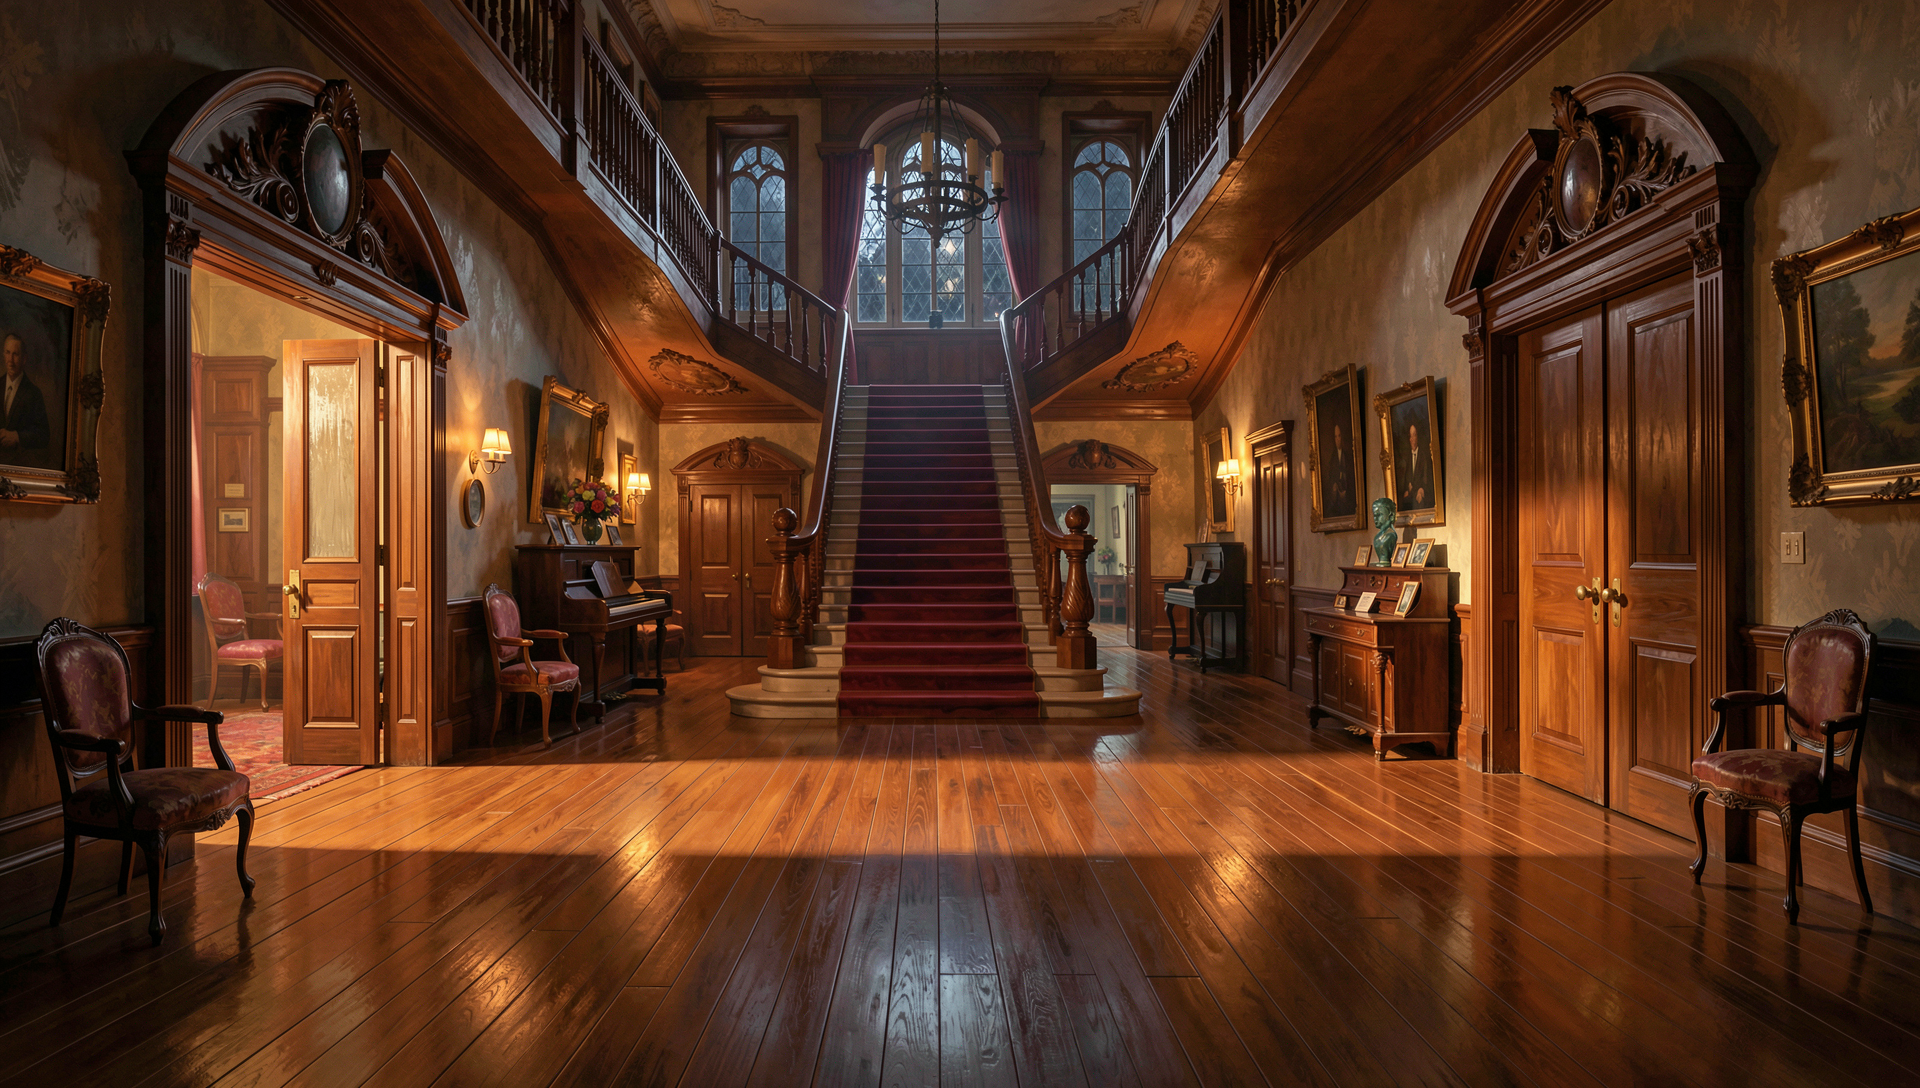
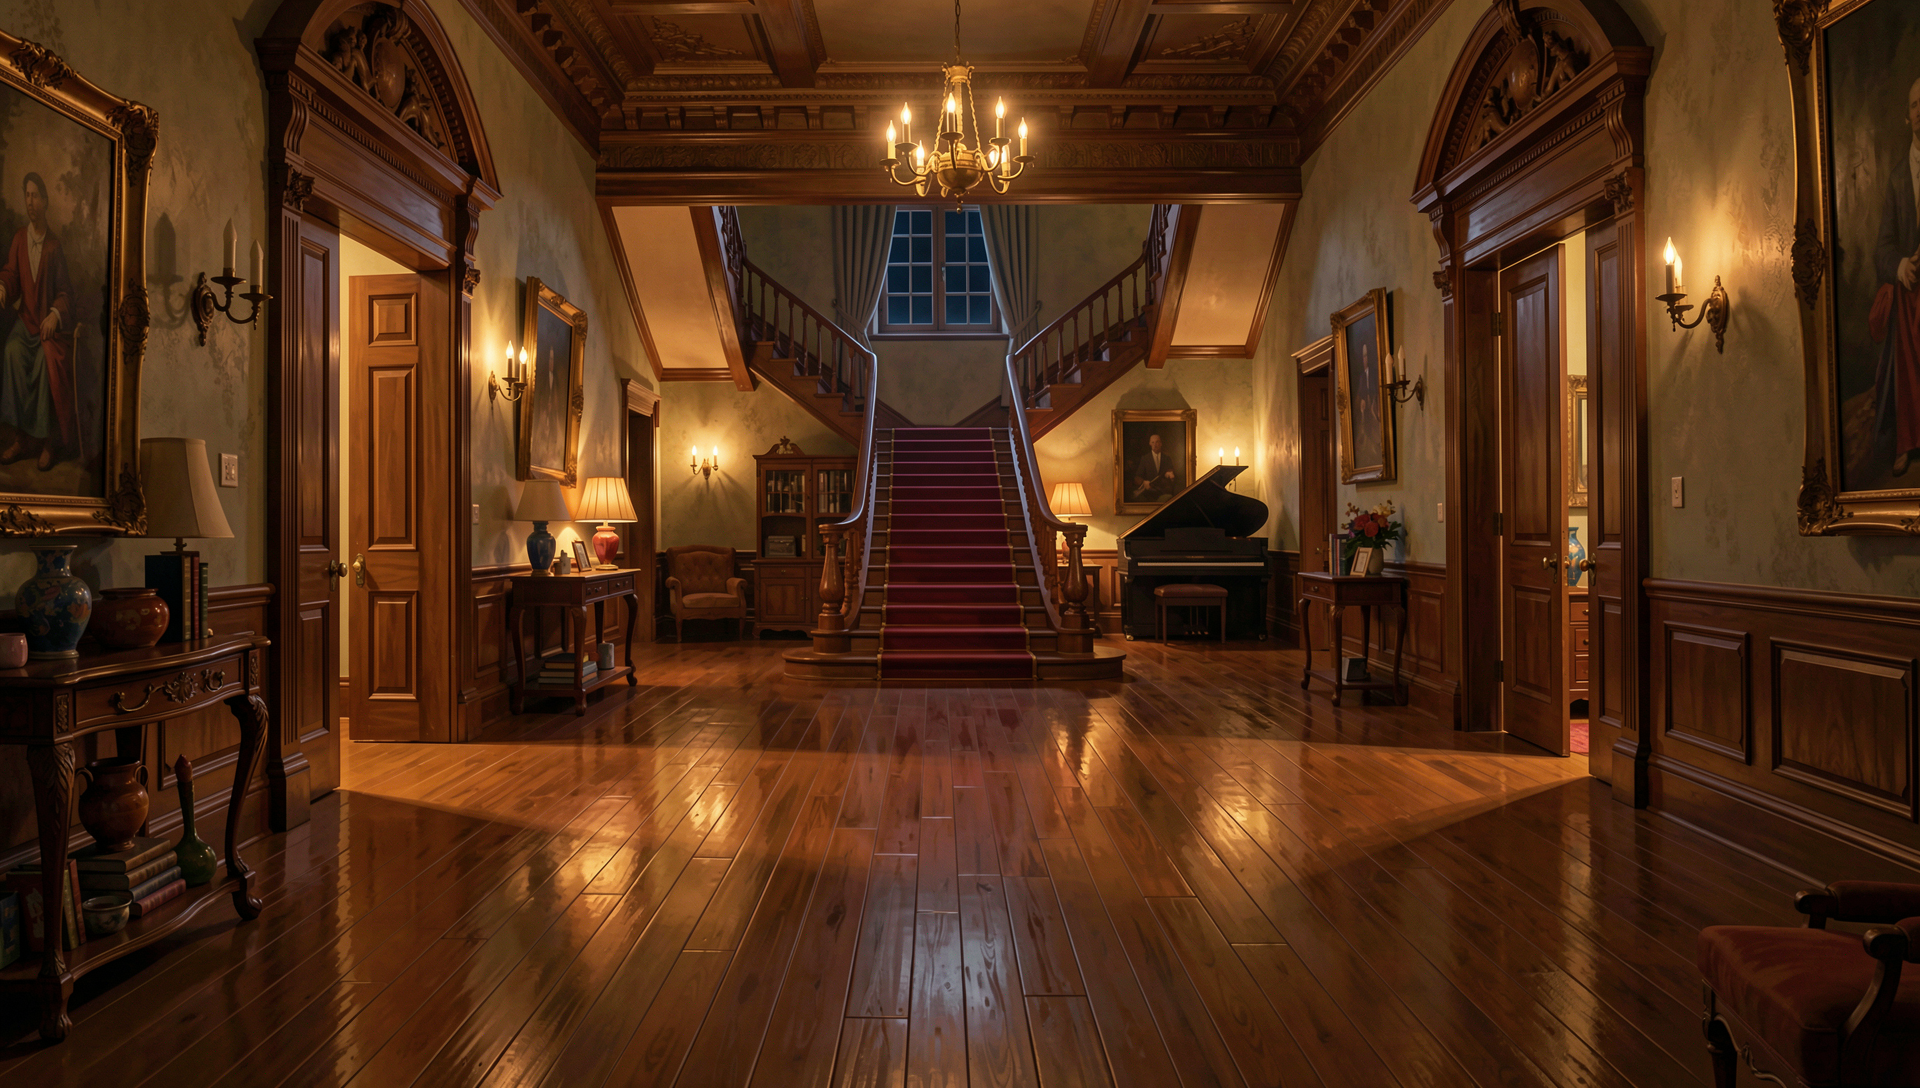
new images flux 2

diff --git a/Murder/game/images/locations/_locations.md b/Murder/game/images/locations/_locations.md
@@ -11,10 +11,10 @@ The **id** column is the output filename (`<id>.png`) and matches the `change_ro
 | entrance_hall      | grand entrance hall with a central staircase, side doors and a piano in a distant corner, flamboyant and impressive, deep perspective across a broad polished floor |
 | tea_room           | large tea room with several chairs and a couple of tables, and drinks tray, flamboyant,impressive and bright                                                        |
 | billiard_room      | billiard room with a green baize table and a small bar on the side                                                                                                  |
-| dining_room        | formal dining room with a long table laid for dinner, tall candelabra, high-backed chairs and a great stone fireplace                                               |
+| dining_room        | formal dining room with a long table laid for dinner, tall candelabra, eight high-backed chairs                                                                     |
 | library            | library with tall bookshelves and a small table holding an open book                                                                                                |
-| portrait_gallery   | long portrait gallery lined with gilt-framed ancestral oil paintings, a narrow runner carpet and wall sconces                                                       |
-| hallway            | panelled ground-floor corridor with a runner carpet, closed doors and a longcase clock                                                                              |
+| portrait_gallery   | narrow gallery lined with portrait paintings of various size, age with both men, women and children, a narrow runner carpet, end with a closed door                 |
+| hallway            | panelled ground-floor corridor with a runner carpet, closed doors only on one side, and a longcase clock                                                            |
 | bedrooms_hallway   | upstairs bedroom corridor with rows of panelled doors, a long runner carpet and wall sconces                                                                        |
 | bedroom_lad        | modest guest bedroom plainly furnished with a simple iron bed and a worn travelling case                                                                            |
 | bedroom_psychic    | mysterious guest bedroom draped in dark velvet, with a crystal ball and tarot cards on the dressing table                                                           |